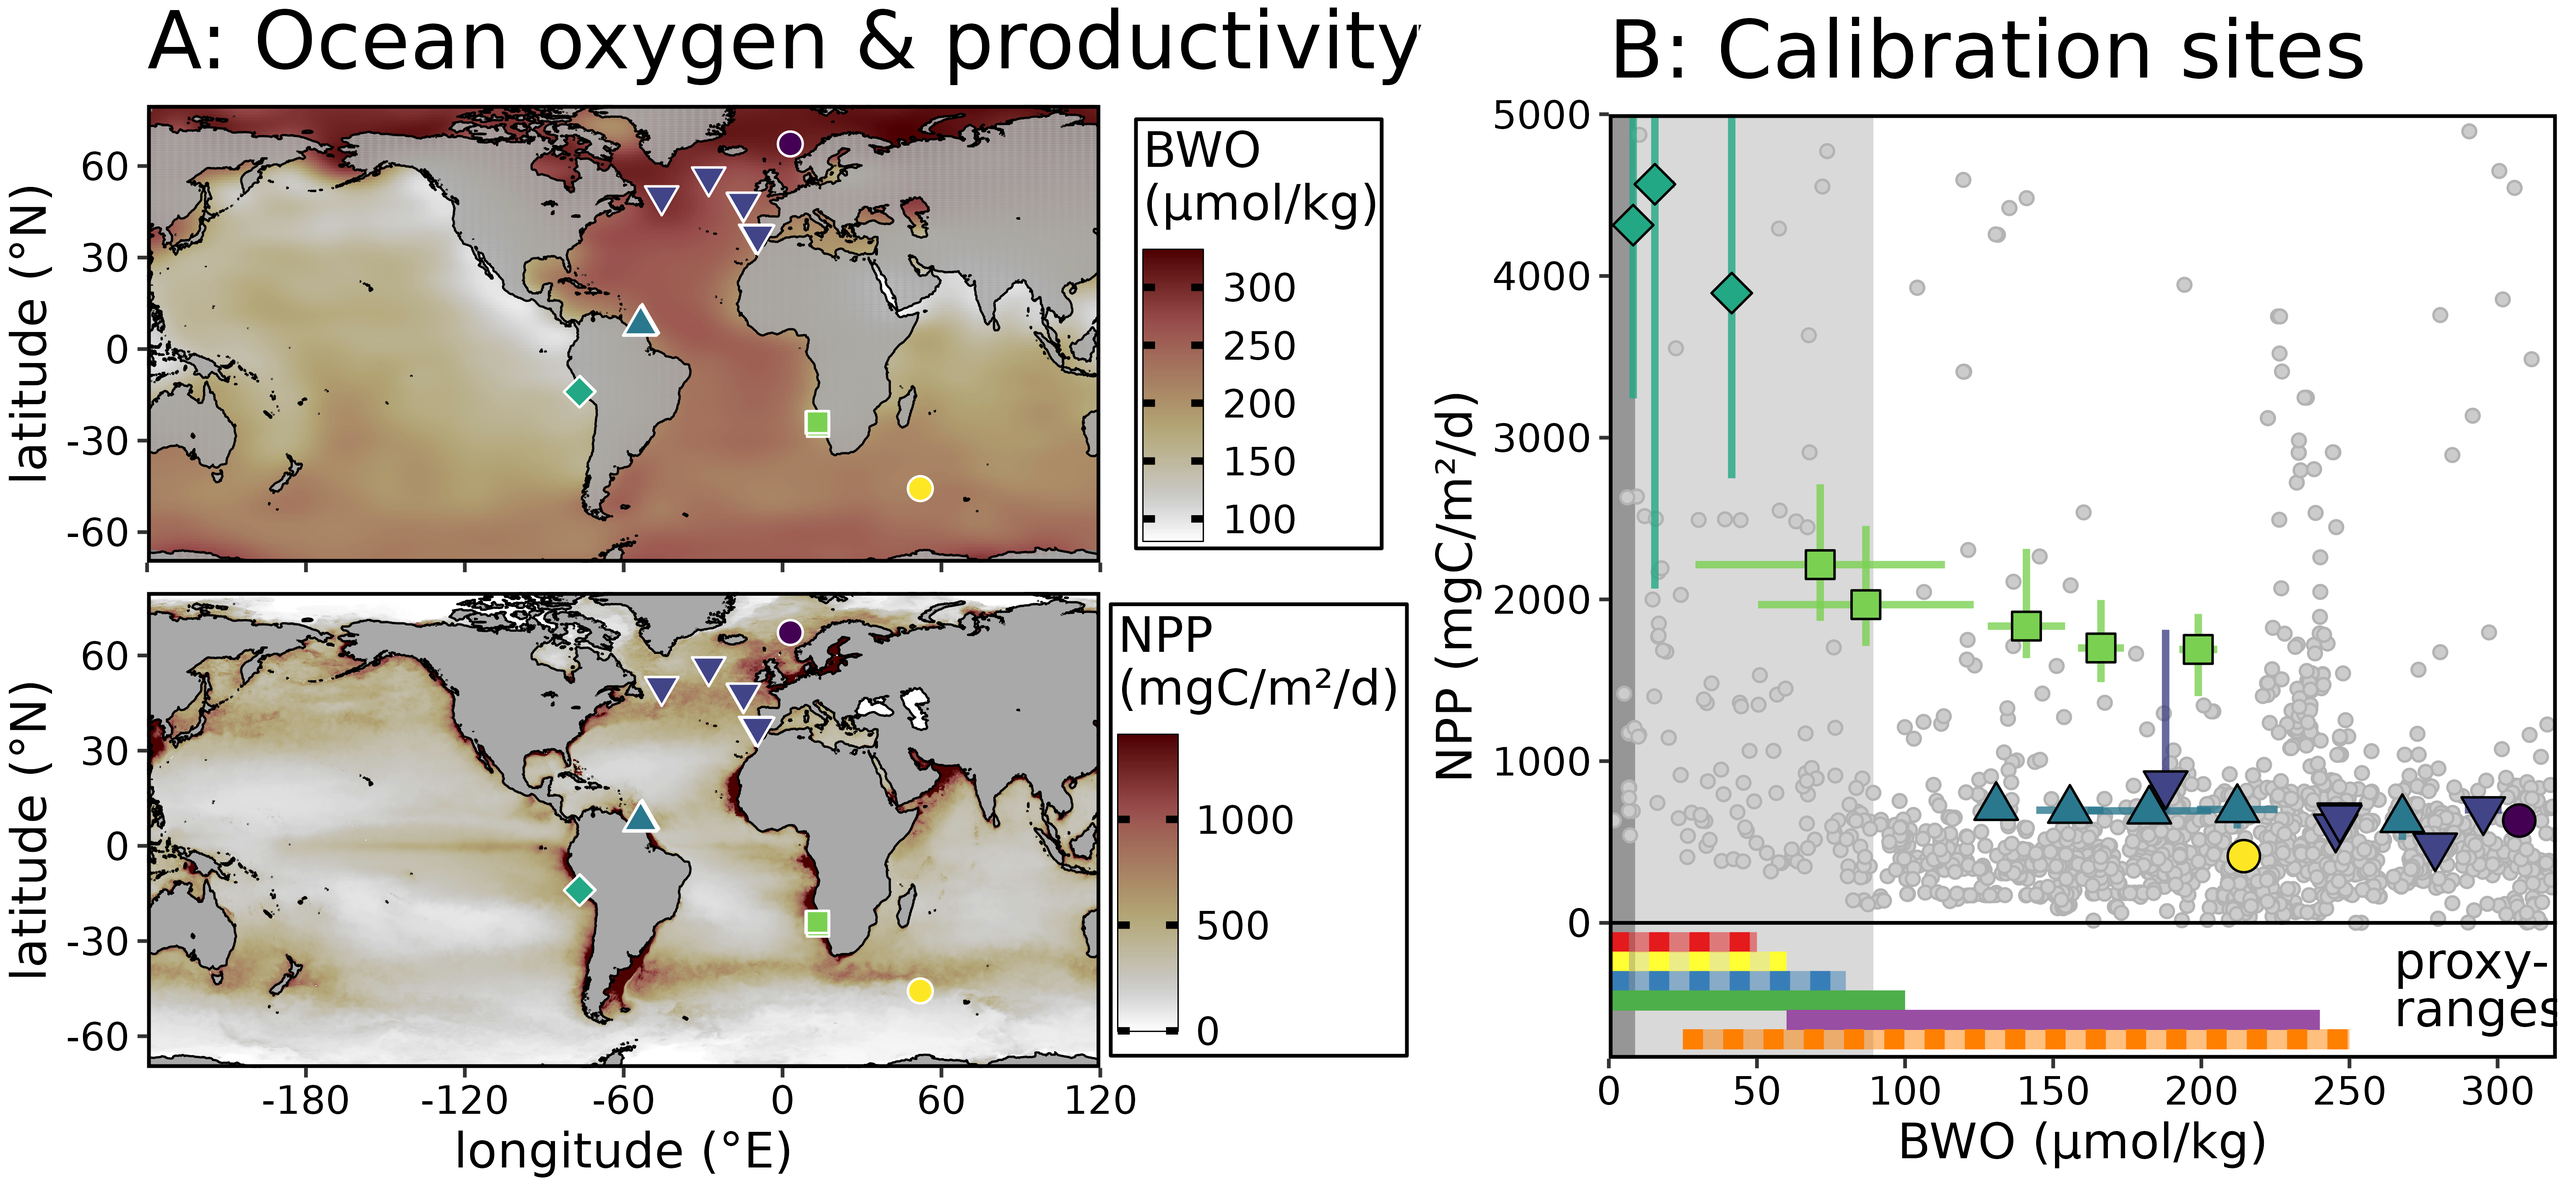
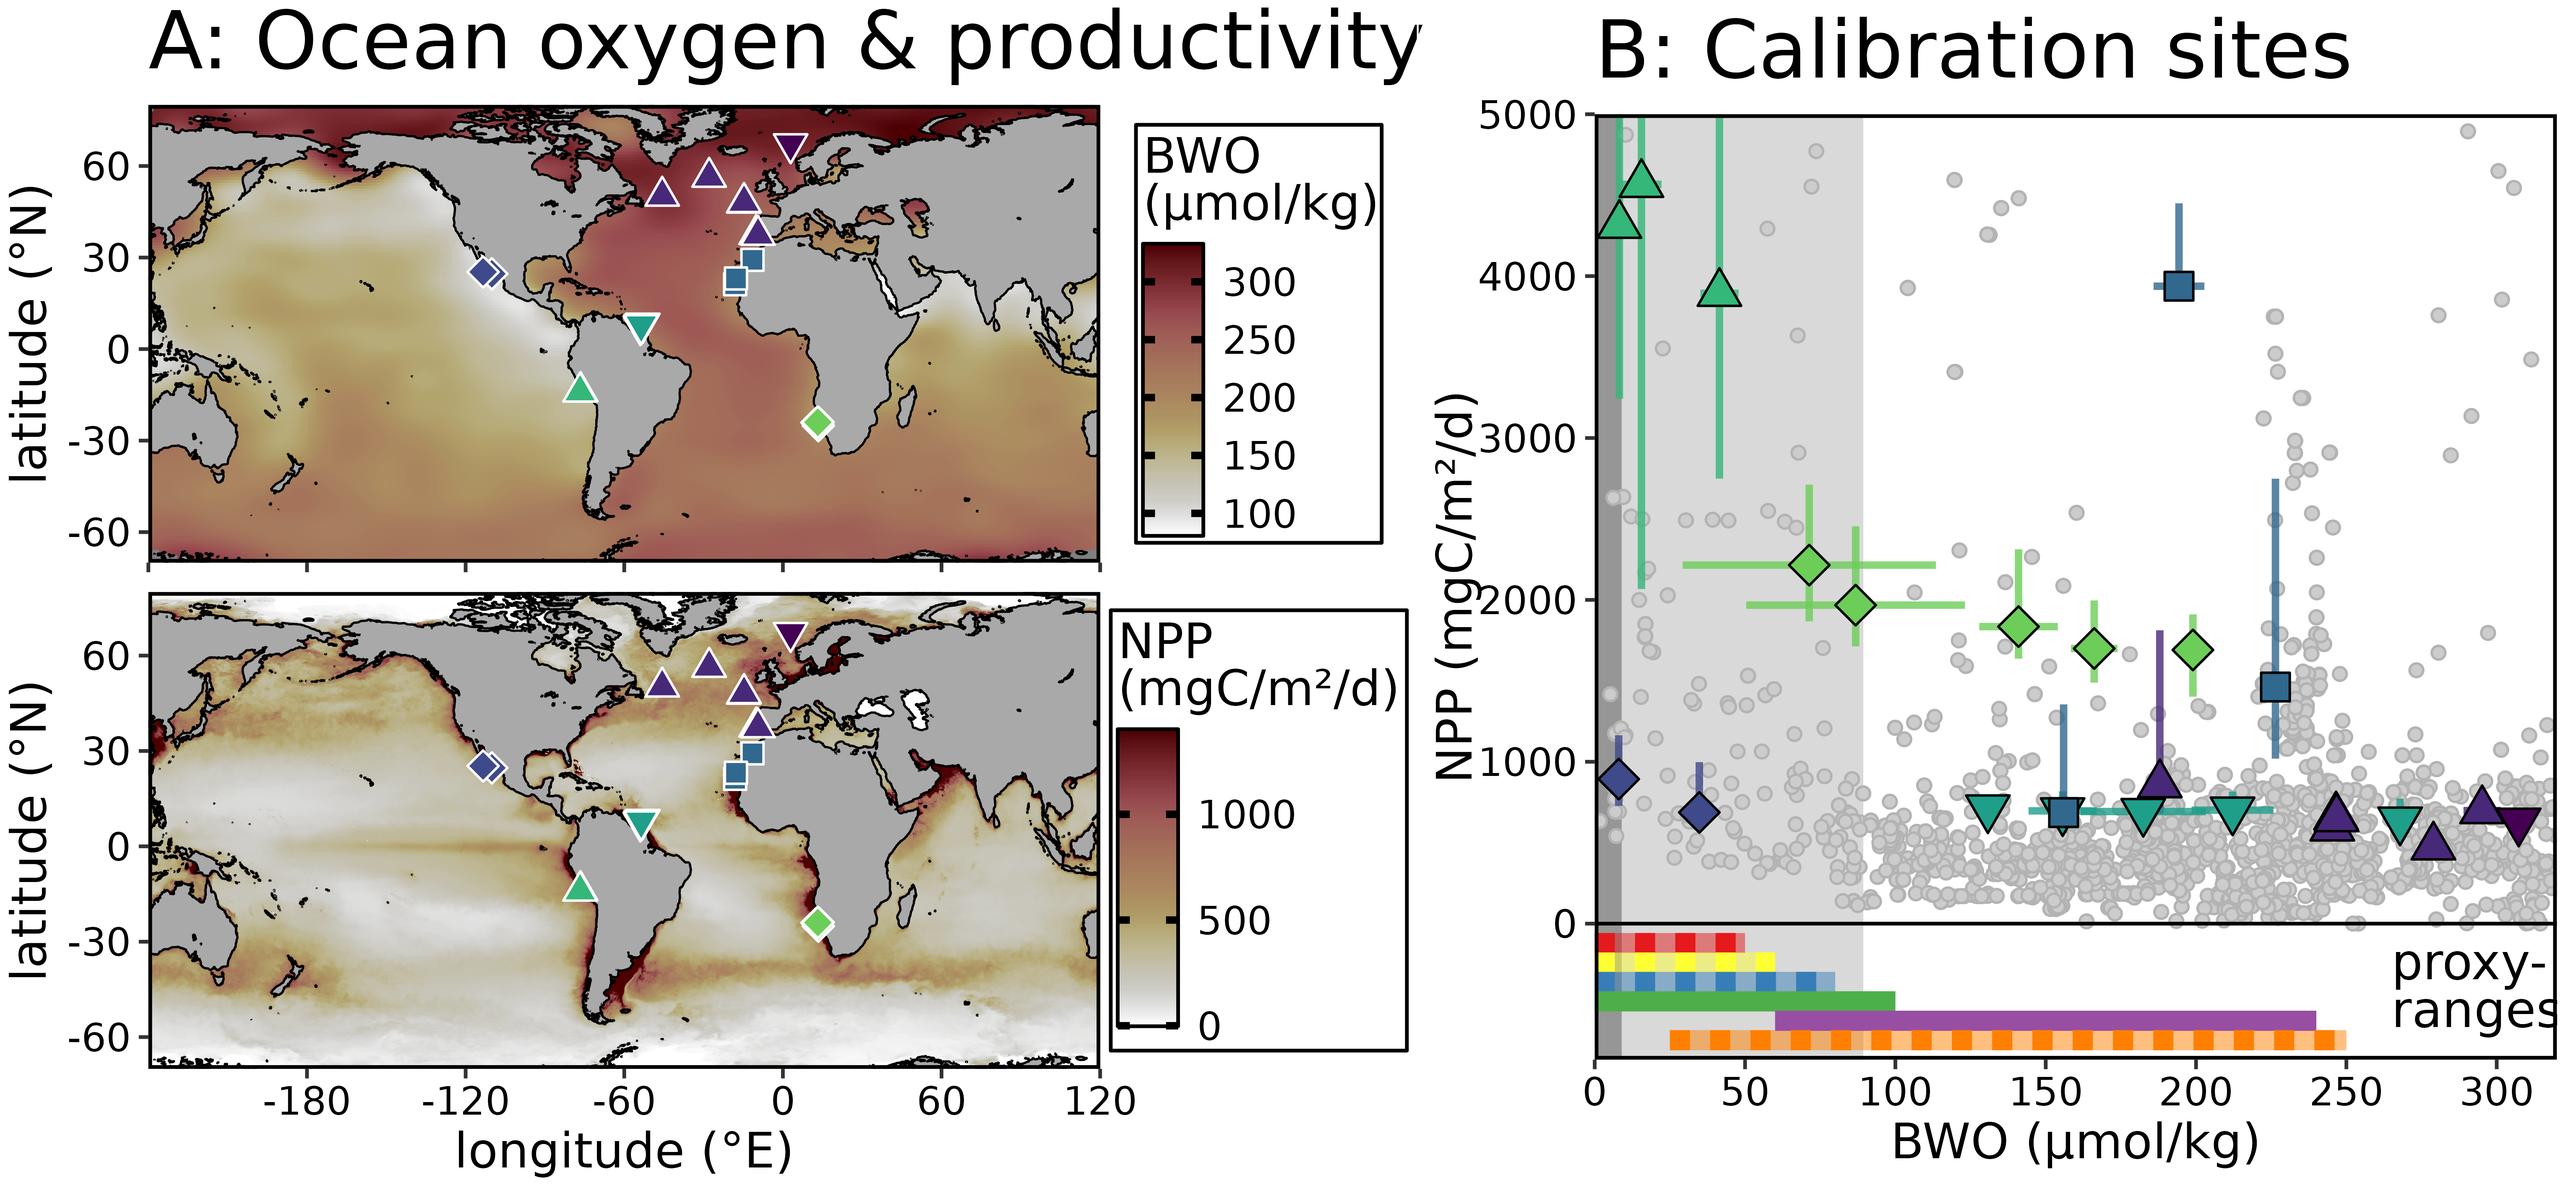
updates for OxyQuant
sites table, Tim Sweere, figures

diff --git a/OxyQuant/sites.md b/OxyQuant/sites.md
@@ -25,15 +25,31 @@ Current OxyQuant sediment core sites:
 
 | Site | Lon <br> (°E) | Lat <br> (°N) | water <br> depth <br> (km) | BWO <br>(µmol/kg) | NPP <br> (mgC/m²/d) | thanks to |
 |:----------------|:-----------:|:--------:|:-------:|:-------:|:-------:|:-------:|
-| IODP U1302 | -45.6 | 50.2 | 3.6 | 295 | 698 | [IODP](https://www.iodp.org/){:target="_blank"} |
-| MSM96-22 | -14.7 | 48.1 | 4.8 | 247 | 649 | [F. Scholz](/OxyQuant/collaborators) |
-| MSM96-11 | -14.8 | 47.9 | 4.8 | 247 | 661 | [F. Scholz](/OxyQuant/collaborators) |
+| 64PE449-7 | 13.4 | -25.1 | 1 | 166 | 1700 | [T. Sweere](/OxyQuant/collaborators) |
+| 64PE449-2 | 13.1 | -24.1 | 0.8 | 141 | 1835 | [T. Sweere](/OxyQuant/collaborators) |
+| 64PE449-1 | 12.9 | -24.1 | 1.5 | 199 | 1691 | [T. Sweere](/OxyQuant/collaborators) |
+| 64PE449-9 | 13.2 | -24 | 0.4 | 87 | 1967 | [T. Sweere](/OxyQuant/collaborators) |
+| 64PE449-8 | 13.4 | -23.9 | 0.3 | 71 | 2215 | [T. Sweere](/OxyQuant/collaborators) |
+| KNR197-3-23GGC | -53.9 | 7.6 | 0.4 | 131 | 714 | [WHOI](https://www2.whoi.edu/site/seafloorsampleslab/){:target="_blank"} |
+| KNR197-3-46GGC | -53.7 | 7.8 | 0.9 | 156 | 697 | [WHOI](https://www2.whoi.edu/site/seafloorsampleslab/){:target="_blank"} |
+| KNR197-60GGC | -53.6 | 7.9 | 1.1 | 182 | 692 | [WHOI](https://www2.whoi.edu/site/seafloorsampleslab/){:target="_blank"} |
+| KNR197-3-9GGC | -53.2 | 8.2 | 1.3 | 212 | 701 | [WHOI](https://www2.whoi.edu/site/seafloorsampleslab/){:target="_blank"} |
+| KNR197-3-53GGC | -53 | 8.4 | 2.6 | 268 | 639 | [WHOI](https://www2.whoi.edu/site/seafloorsampleslab/){:target="_blank"} |
+| M60/A-B 16030-1 | -18.1 | 21.2 | 1.5 | 194 | 3938 | [GEOMAR](https://www.geomar.de/en/centre/central-facilities/tlz/core-rock-repository){:target="_blank"} |
+| M25 12379-3 | -17.8 | 23.1 | 2.1 | 226 | 1462 | [GEOMAR](https://www.geomar.de/en/centre/central-facilities/tlz/core-rock-repository){:target="_blank"} |
+| M60/A-B 16006-1 | -11.5 | 29.2 | 0.8 | 156 | 686 | [GEOMAR](https://www.geomar.de/en/centre/central-facilities/tlz/core-rock-repository){:target="_blank"} |
+| IODP U1391 | -9.4 | 37.4 | 1.1 | 188 | 859 | [IODP](https://www.iodp.org/){:target="_blank"} |
 | IODP U1385 | -10.1 | 37.6 | 2.6 | 245 | 592 | [IODP](https://www.iodp.org/){:target="_blank"} |
-| IODP U1391 | -9.41 | 37.4 | 1.1 | 188 | 858 | [IODP](https://www.iodp.org/){:target="_blank"} |
+| MSM96-11 | -14.8 | 47.9 | 4.8 | 247 | 661 | [F. Scholz](/OxyQuant/collaborators) |
+| MSM96-22 | -14.7 | 48.1 | 4.8 | 247 | 649 | [F. Scholz](/OxyQuant/collaborators) |
+| PCM00-3C | -110.1 | 24.7 | 0.7 | 8 | 893 | J. Herguera |
+| BAP96-9-T | -113.4 | 25.3 | 1.3 | 35 | 687 | J. Herguera |
+| IODP U1302 | -45.6 | 50.2 | 3.6 | 295 | 698 | [IODP](https://www.iodp.org/){:target="_blank"} |
+| IODP U1314 | -27.9 | 56.4 | 2.8 | 279 | 474 | [IODP](https://www.iodp.org/){:target="_blank"} |
+| ODP 642 | 2.9 | 67.2 | 1.3 | 307 | 632 | [IODP](https://www.iodp.org/){:target="_blank"} |
+| M136-409 | -76.7 | -14 | 0.9 | 41 | 3894 | [F. Scholz](/OxyQuant/collaborators) |
+| M136-242 | -76.6 | -14 | 0.3 | 8 | 4314 | [F. Scholz](/OxyQuant/collaborators) |
 | M136-338 | -76.5 | -13.9 | 0.2 | 16 | 4567 | [F. Scholz](/OxyQuant/collaborators) |
-| M136-242 | -76.6 | -14.0 | 0.3 | 8 | 4314 | [F. Scholz](/OxyQuant/collaborators) |
-| M136-409 | -76.7 | -14.0 | 0.9 | 42 | 3894 | [F. Scholz](/OxyQuant/collaborators) |
-| MD19-3580 | 52.0 | -45.7 | 2.7 | 214 | 413 | [X. Crosta](https://www.epoc.u-bordeaux.fr/indiv/XCrosta/){:target="_blank"} |
 
 
 {: .box-warning}

diff --git a/OxyQuant/collaborators.md b/OxyQuant/collaborators.md
@@ -28,6 +28,13 @@ OxyQuant relies on the collaboration of an international team of scientists, inc
    <img src="/assets/img/Portrait_FlorianScholz.jpg" style="width: 150px; float: left; margin-right: 2em;"
       alt="PD Dr. Florian Scholz"
      class="img-responsive" />
-  <figcaption><i><a href = "https://www.geomar.de/en/fscholz" target="_blank" ><b>PD Dr. Florian Scholz</b></a> is head of the Emmy Noether-Research Group ICONOX at GEOMAR Helmholtz Centre for Ocean Research Kiel, Germany. His research focuses on water-sediment interactions in marine depositional environments and their role in global biogeochemical cycles. </i></figcaption>
+  <figcaption><i><a href = "https://www.geomar.de/en/fscholz" target="_blank" ><b>Prof. Florian Scholz</b></a> is head of the research group for biogeochemistry at the Universität Hamburg , Germany. His research focuses on water-sediment interactions in marine depositional environments and their role in global biogeochemical cycles. </i></figcaption>
+</figure>
+
+<figure>
+   <img src="/assets/img/Portrait_TimSweere.jpg" style="width: 150px; float: left; margin-right: 2em;"
+      alt="Dr. Tim Sweere"
+     class="img-responsive" />
+  <figcaption><i><a href = "https://erdw.ethz.ch/en/people/profile.MjUzOTYy.TGlzdC83NzMsOTI0MjA1OTI2.html" target="_blank" ><b>Dr. Tim Sweere</b></a> is Lecturer at the Department of Earth Sciences at ETH Zürich, Switzerland. His research focuses the behaviour of trace metals in the marine environment and their use in paleo studies. </i></figcaption>
 </figure>
 

diff --git a/Files.md b/Files.md
@@ -1,0 +1,9 @@
+---
+layout: page
+title: Files
+cover-img: "/assets/img/ocean_bubbles_corals_drawing.jpg"
+footer-extra: 
+---
+
+
+- [Pyro_DeveloperTool](/assets/files/Installer_Pyro_DeveloperTool.zip)
